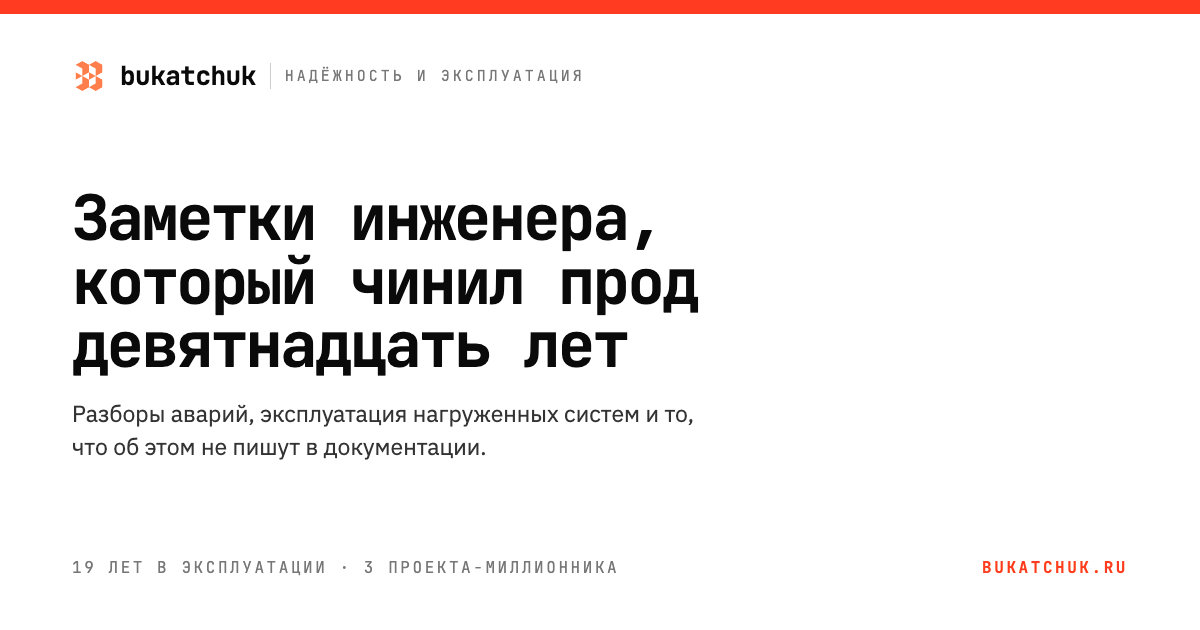
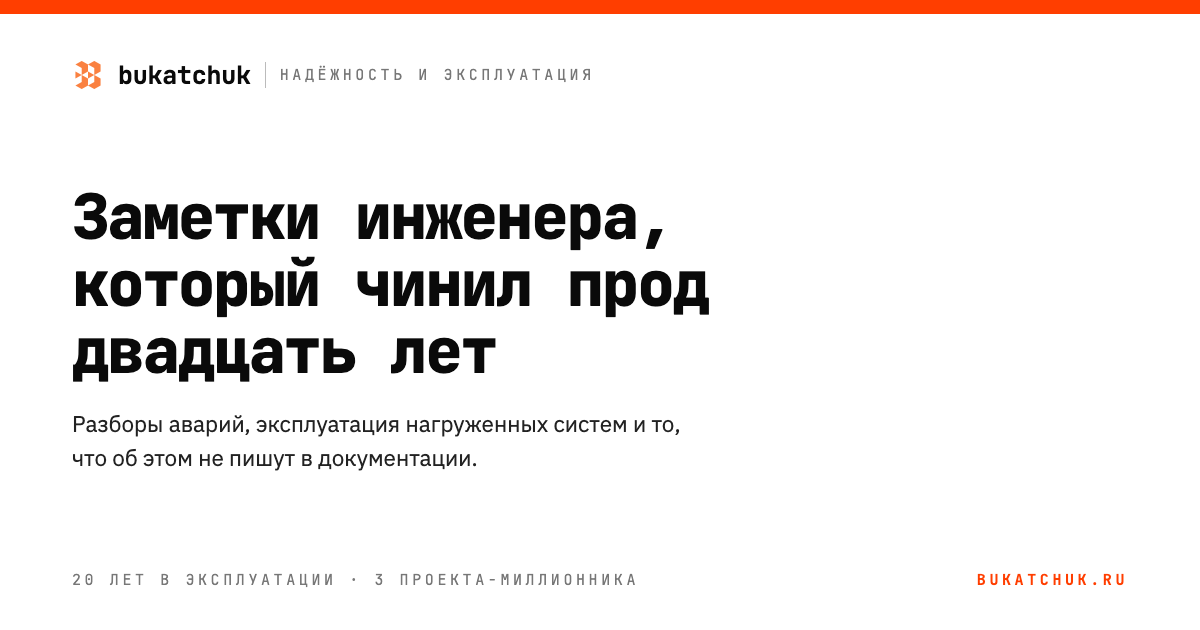
Главная: стаж двадцать лет, заголовок считается от года начала

diff --git a/_layouts/home.html b/_layouts/home.html
@@ -5,7 +5,9 @@ layout: default
 <section class="hero">
   <div class="hero__in">
     <p class="eyebrow">// {{ site.author.name }} · {{ site.author.role }}</p>
-    <h1>{{ page.headline | default: site.home.headline }}</h1>
+    {%- assign hero_years = site.time | date: "%Y" | minus: site.career.ops_since -%}
+    {%- capture hero_years_text %}{% include years-word.html %} {% include years-noun.html n=hero_years %}{% endcapture %}
+    <h1>{{ page.headline | default: site.home.headline | replace: "[years]", hero_years_text }}</h1>
     <p class="hero__sub">{{ page.lead | default: site.home.lead }}</p>
     <div class="hero__meta">
       <span>{{ posts.size }} {% if posts.size == 1 %}публикация{% elsif posts.size >= 2 and posts.size <= 4 %}публикации{% else %}публикаций{% endif %}</span>
